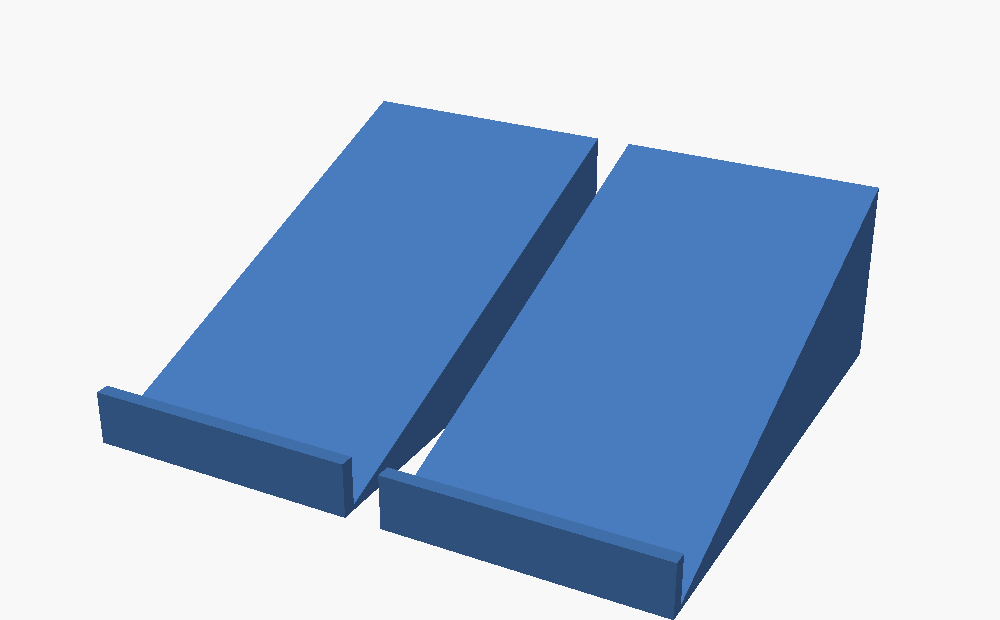
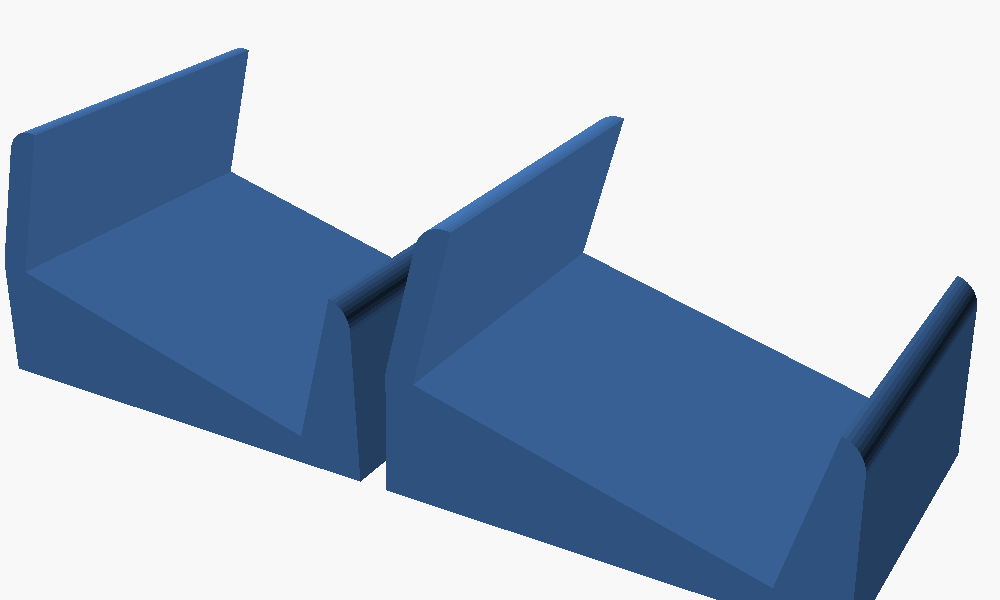
Pieds : socle a rainure au lieu d'une cale — la boite s'encastre
Une cale ne tient que couchee. Des que l'ecran se redresse, la boite
n'a plus qu'une arete en appui, retenue par une butee de 9 mm : elle
bascule. Le profil de cote le montrait sans ambiguite, et c'est ce que
l'utilisateur a vu tout de suite.

Le pied devient un socle a rainure inclinee : les deux joues tiennent
la boite des deux cotes, elle est encastree et non posee. La largeur
de rainure se deduit de la boite (fond + hauteur + couvercle + 0.6).
L'inclinaison se compte maintenant DEPUIS LA VERTICALE, comme sur un
pied d'ecran : 15 degres par defaut.

Le bloc epouse la rainure et descend jusqu'a la table. Premiere
version : le fond de rainure, incline lui aussi, passait sous la table
d'un cote et chaque socle sortait en deux morceaux detaches. Il est
maintenant remonte de la demi-largeur x sin(angle), et l'assise vient
d'une enveloppe convexe rasee au niveau de la table.

Verifie a 15 comme a 40 degres : Simple yes, une piece par socle.

diff --git a/builder.html b/builder.html
@@ -302,11 +302,10 @@
             <div class="rowline"><label style="width:auto;flex:1">Générer des pieds</label>
               <input type="checkbox" id="optStand"></div>
             <div id="standRows" style="display:none">
-              <div class="rowline"><label>Inclinaison</label><input type="number" id="standAngle" min="5" max="60" step="1"><span class="unit">°</span></div>
+              <div class="rowline" title="Recul de l'écran par rapport à la verticale. 0 = boîte debout."><label>Inclinaison</label><input type="number" id="standAngle" min="0" max="60" step="1"><span class="unit">°</span></div>
               <div class="rowline"><label>Largeur</label><input type="number" id="standW" min="15" max="120" step="1"><span class="unit">mm</span></div>
-              <div class="rowline" title="Ce que la cale prend sur le bureau. Plus elle est courte, plus elle est haute à angle égal."><label>Longueur</label><input type="number" id="standLen" min="20" max="250" step="1"><span class="unit">mm</span></div>
-              <div class="rowline"><label>Butée avant</label><input type="number" id="standLip" min="2" max="30" step="0.5"><span class="unit">mm</span></div>
-              <div class="rowline"><label>Butée arrière</label><input type="number" id="standBack" min="0" max="40" step="0.5"><span class="unit">mm</span></div>
+              <div class="rowline" title="Sur quelle hauteur la boîte s'enfonce dans la rainure. Plus c'est profond, plus c'est stable."><label>Encastrement</label><input type="number" id="standDepth" min="6" max="60" step="1"><span class="unit">mm</span></div>
+              <div class="rowline"><label>Matière autour</label><input type="number" id="standWall" min="2" max="12" step="0.5"><span class="unit">mm</span></div>
               <div class="empty" id="standNote"></div>
             </div>
           </div>
@@ -525,9 +524,12 @@ const EN = {
   'Ce que la cale prend sur le bureau. Plus elle est courte, plus elle est haute à angle égal.':
     'How much desk the wedge takes. The shorter it is, the taller it gets at the same angle.',
   'Pieds': 'Feet', 'inclinaison': 'tilt',
-  'Cale': 'Wedge', 'hauteur totale': 'overall height', 'emprise': 'footprint',
-  'La butée arrière tombe sous la boîte : allonge la cale à': 'The back stop lands under the box: make the wedge at least',
-  'au moins, ou remets-la à 0.': 'long, or set it back to 0.',
+  'Socle haut de': 'Socket', 'emprise': 'footprint', 'écran à': 'screen top at',
+  'Encastrement': 'Seat depth', 'Matière autour': 'Wall around',
+  'Recul de l\'écran par rapport à la verticale. 0 = boîte debout.':
+    'How far the screen leans back from vertical. 0 = box upright.',
+  'Sur quelle hauteur la boîte s\'enfonce dans la rainure. Plus c\'est profond, plus c\'est stable.':
+    'How far the box sinks into the groove. Deeper is steadier.',
   'Épaisseur couvercle': 'Lid thickness', 'Épaisseur fond': 'Floor thickness',
   'Épaisseur murs': 'Wall thickness', 'Régénérer': 'Rebuild',
   'Épaisseur du fond de la boîte. C\'est lui qui porte tout : 2 mm suffisent, monte à 3 ou 4 pour un boîtier lourd ou vissé au mur.':
@@ -976,7 +978,7 @@ const DEFAULT_STATE = () => ({
   inner: { w: 100, d: 70, h: 40 },
   vents: false, tieSlots: false, lidFix: 'snap',
   holeComp: 0.3, teardrop: true, lidT: 3, floorT: 2,
-  stand: false, standAngle: 20, standW: 45, standLen: 0, standLip: 9, standBack: 0,
+  stand: false, standAngle: 15, standW: 45, standDepth: 18, standWall: 4,
   mountTabs: 'none', mountN: 2, panel: 'cut',
   face: 'front', cuts: [], pcbs: [], cells: [], divs: [], comps: [], clips: [], nextId: 1, sel: null,
 });
@@ -2124,43 +2126,69 @@ function facePanel(faceId, fw, fh, transform, k, extra) {
 // cube qui tourne ne dit rien d'un angle.
 function standProfileSvg() {
   const a = state.standAngle * Math.PI / 180;
-  const L = state.standLen, h = L * Math.tan(a);
-  const lip = state.standLip, back = state.standBack;
-  const od = state.inner.d + 4.8;
-  const oh = state.floorT + state.inner.h + state.lidT;
-  const ca = Math.cos(a), sa = Math.sin(a);
-  // la boîte repose sur la pente, coin avant calé contre la butée
-  const P0 = [2.4, 2.4 * Math.tan(a)];
-  const P1 = [P0[0] + od * ca, P0[1] + od * sa];
-  const P2 = [P1[0] - oh * sa, P1[1] + oh * ca];
-  const P3 = [P0[0] - oh * sa, P0[1] + oh * ca];
-  const pts = [P0, P1, P2, P3];
-  const maxX = Math.max(L, ...pts.map(p => p[0])) + 4;
-  const minX = Math.min(0, ...pts.map(p => p[0])) - 4;
-  const maxY = Math.max(h + back, ...pts.map(p => p[1])) + 4;
-  const W = 186, S = Math.min(W / (maxX - minX), 130 / maxY);
-  const H = maxY * S + 16;
-  const X = x => (x - minX) * S;
-  const Y = y => H - 10 - y * S;
-  const poly = ps => ps.map(p => `${r1(X(p[0]))},${r1(Y(p[1]))}`).join(' ');
-  let g = `<svg viewBox="0 0 ${r1(W)} ${r1(H)}" style="width:100%;height:auto;margin-top:6px">`;
+  const wall = state.standWall, depth = state.standDepth;
+  const T = state.floorT + state.inner.h + state.lidT + 0.6;   // la rainure
+  const od = state.inner.d + 4.8;                              // la boîte
+  const hs = T / 2, by = wall + hs * Math.sin(a);
+  const ux = Math.sin(a), uy = Math.cos(a);
+  const nx = Math.cos(a), ny = -Math.sin(a);
+  const P = (t, u) => [t * nx + u * ux, by + t * ny + u * uy];
+  const rainure = [P(-hs, 0), P(hs, 0), P(hs, depth), P(-hs, depth)];
+  const bloc0 = [P(-hs - wall, -wall), P(hs + wall, -wall),
+                 P(hs + wall, depth + wall), P(-hs - wall, depth + wall)];
+  const xs = bloc0.map(q => q[0]);
+  // enveloppe convexe du bloc et de son assise, puis rasée à la table
+  const pts = bloc0.concat([[Math.min(...xs), 0], [Math.max(...xs), 0]]);
+  const cr = (o, p, q) => (p[0]-o[0])*(q[1]-o[1]) - (p[1]-o[1])*(q[0]-o[0]);
+  const tri = pts.slice().sort((p, q) => p[0] - q[0] || p[1] - q[1]);
+  const moitie = liste => {
+    const h = [];
+    for (const q of liste) {
+      while (h.length >= 2 && cr(h[h.length-2], h[h.length-1], q) <= 0) h.pop();
+      h.push(q);
+    }
+    h.pop(); return h;
+  };
+  let bloc = moitie(tri).concat(moitie(tri.slice().reverse()));
+  // découpe au ras de la table (Sutherland-Hodgman sur y >= 0)
+  const clip = poly => {
+    const out = [];
+    for (let k = 0; k < poly.length; k++) {
+      const A = poly[k], B = poly[(k + 1) % poly.length];
+      const dA = A[1], dB = B[1];
+      if (dA >= 0) out.push(A);
+      if ((dA >= 0) !== (dB >= 0)) {
+        const t2 = dA / (dA - dB);
+        out.push([A[0] + t2 * (B[0] - A[0]), 0]);
+      }
+    }
+    return out;
+  };
+  bloc = clip(bloc);
+  // la boîte, encastrée jusqu'au fond de la rainure
+  const B0 = P(-T / 2, 0), B1 = P(T / 2, 0);
+  const B2 = [B1[0] + od * ux, B1[1] + od * uy];
+  const B3 = [B0[0] + od * ux, B0[1] + od * uy];
+  const boite = [B0, B1, B2, B3];
+  const tous = bloc.concat(boite);
+  const maxX = Math.max(...tous.map(p => p[0])) + 4;
+  const minX = Math.min(...tous.map(p => p[0])) - 4;
+  const maxY = Math.max(...tous.map(p => p[1])) + 4;
+  const W = 186, S = Math.min(W / (maxX - minX), 132 / maxY);
+  const H2 = maxY * S + 16;
+  const X = x => (x - minX) * S, Y = y => H2 - 10 - y * S;
+  const poly2 = ps => ps.map(p => `${r1(X(p[0]))},${r1(Y(p[1]))}`).join(' ');
+  let g = `<svg viewBox="0 0 ${r1(W)} ${r1(H2)}" style="width:100%;height:auto;margin-top:6px">`;
   g += `<line x1="0" y1="${r1(Y(0))}" x2="${W}" y2="${r1(Y(0))}" stroke="#3d475c" stroke-width="1.2"/>`;
-  g += `<polygon points="${poly([[0, 0], [L, 0], [L, h]])}" fill="rgba(240,179,80,.22)" stroke="#f0b350" stroke-width="1"/>`;
-  g += `<polygon points="${poly([[0, 0], [2.4, 0], [2.4, lip], [0, lip]])}" fill="rgba(240,179,80,.35)" stroke="#f0b350" stroke-width="1"/>`;
-  if (back > 0)
-    g += `<polygon points="${poly([[L - 2.4, 0], [L, 0], [L, h + back], [L - 2.4, h + back]])}" fill="rgba(240,179,80,.35)" stroke="#f0b350" stroke-width="1"/>`;
-  g += `<polygon points="${poly(pts)}" fill="rgba(197,139,255,.14)" stroke="#c58bff" stroke-width="1.3"/>`;
-  g += `<line x1="${r1(X(P3[0]))}" y1="${r1(Y(P3[1]))}" x2="${r1(X(P2[0]))}" y2="${r1(Y(P2[1]))}" stroke="#e6e9ef" stroke-width="2.4"/>`;
+  g += `<polygon points="${poly2(boite)}" fill="rgba(197,139,255,.14)" stroke="#c58bff" stroke-width="1.3"/>`;
+  g += `<line x1="${r1(X(B0[0]))}" y1="${r1(Y(B0[1]))}" x2="${r1(X(B3[0]))}" y2="${r1(Y(B3[1]))}" stroke="#e6e9ef" stroke-width="2.4"/>`;
+  g += `<polygon points="${poly2(bloc)}" fill="rgba(240,179,80,.30)" stroke="#f0b350" stroke-width="1.2"/>`;
+  g += `<polygon points="${poly2(rainure)}" fill="#10141b" stroke="#f0b350" stroke-width=".8"/>`;
   g += `</svg>`;
-  // la butée arrière ne retient la boîte que si la cale va jusqu'à son
-  // bord ; plus courte, elle vient buter sous elle
-  const alerte = back > 0 && L < od * ca
-    ? t('La butée arrière tombe sous la boîte : allonge la cale à') + ' ' +
-      r1(od * ca + 2.4) + ' mm ' + t('au moins, ou remets-la à 0.')
-    : null;
-  return { svg: g, h: r1(h), alerte,
-           hors: r1(Math.max(...pts.map(p => p[1]))),
-           emprise: r1(Math.max(L, ...pts.map(p => p[0]))) };
+  const hb = Math.max(...bloc.map(p => p[1]));
+  return { svg: g, h: r1(hb),
+           hors: r1(Math.max(...boite.map(p => p[1]))),
+           emprise: r1(Math.max(...bloc.map(p => p[0])) - Math.min(...bloc.map(p => p[0]))) };
 }
 
 function render3d() {
@@ -2210,7 +2238,8 @@ function render3d() {
 function applyP3() {
   // sur pieds, la boîte est montrée dans son attitude réelle : on
   // bascule le modèle avant d'y appliquer la rotation de l'utilisateur
-  const inc = state.stand ? ` rotateX(${-state.standAngle}deg)` : '';
+  // l'angle est compté depuis la verticale : debout = -90 de basculement
+  const inc = state.stand ? ` rotateX(${state.standAngle - 90}deg)` : '';
   $('p3cube').style.transform = `rotateX(${p3.rx}deg) rotateY(${p3.ry}deg)${inc}`;
 }
 
@@ -2598,8 +2627,7 @@ function buildArgList(part) {
   if (state.floorT !== 2) args.push(`floor_t=${state.floorT}`);
   if (part === 'stand') {
     args.push(`stand_angle=${state.standAngle}`, `stand_w=${state.standW}`,
-              `stand_len=${state.standLen}`,
-              `stand_lip=${state.standLip}`, `stand_back=${state.standBack}`);
+              `stand_depth=${state.standDepth}`, `stand_wall=${state.standWall}`);
     return args;
   }
   if (part === 'inserts') {
@@ -3138,9 +3166,8 @@ function buildStatic() {
   $('optStand').addEventListener('change', () => {
     pushHistory(); state.stand = $('optStand').checked; updateAll();
   });
-  for (const [id, cle, mini] of [['standAngle', 'standAngle', 5], ['standW', 'standW', 15],
-                                 ['standLen', 'standLen', 20],
-                                 ['standLip', 'standLip', 2], ['standBack', 'standBack', 0]])
+  for (const [id, cle, mini] of [['standAngle', 'standAngle', 0], ['standW', 'standW', 15],
+                                 ['standDepth', 'standDepth', 6], ['standWall', 'standWall', 2]])
     $(id).addEventListener('input', () => {
       const v = parseFloat($(id).value);
       if (!isNaN(v) && v >= mini) { pushHistory(cle); state[cle] = v; updateAll(); }
@@ -3295,17 +3322,13 @@ function updateAll(withInspector = true) {
   if (document.activeElement !== $('optFloorT')) $('optFloorT').value = state.floorT;
   $('optStand').checked = state.stand;
   $('standRows').style.display = state.stand ? '' : 'none';
-  if (!state.standLen) state.standLen = r1((state.inner.d + 4.8) * 0.7);
-  for (const [id, cle] of [['standAngle', 'standAngle'], ['standW', 'standW'],
-                           ['standLen', 'standLen'],
-                           ['standLip', 'standLip'], ['standBack', 'standBack']])
-    if (document.activeElement !== $(id)) $(id).value = state[cle];
+  for (const cle of ['standAngle', 'standW', 'standDepth', 'standWall'])
+    if (document.activeElement !== $(cle)) $(cle).value = state[cle];
   if (state.stand) {
     const pr = standProfileSvg();
     $('standNote').innerHTML = pr.svg +
-      `<div style="margin-top:4px">${t('Cale')} ${state.standLen} × ${pr.h} mm · ` +
-      `${t('hauteur totale')} ${pr.hors} mm · ${t('emprise')} ${pr.emprise} mm</div>` +
-      (pr.alerte ? `<div style="margin-top:5px;color:var(--danger)">${esc(pr.alerte)}</div>` : '');
+      `<div style="margin-top:4px">${t('Socle haut de')} ${pr.h} mm · ` +
+      `${t('emprise')} ${pr.emprise} mm · ${t('écran à')} ${pr.hors} mm</div>`;
   }
   const stale = state.tpl && state.tpl.id === 'p4_7b' && state.tpl.v < TPL_7B_V;
   $('tplStale').style.display = stale ? '' : 'none';

diff --git a/docs/Elements-Reference.md b/docs/Elements-Reference.md
@@ -297,35 +297,35 @@ Case panel.
 
 ## Tilt feet (separate part)
 
-*Case* panel → **Tilt feet**. Two wedges the box sits on, screen
-raised towards you — a fourth **Feet** button appears in the footer to
-generate them.
+*Case* panel → **Tilt feet**. Two **grooved sockets** the box slots
+into, screen raised towards you — a fourth **Feet** button appears in
+the footer to generate them.
 
 | | |
 |---|---|
-| Tilt | angle from the desk, 20° default |
-| Width | one wedge, 45 mm default |
-| Length | how much desk it takes; defaults to 70 % of the box depth |
-| Front stop | the ridge the box leans against so it cannot slide down |
-| Back stop | 0 = open wedge; above 0 the box is closed in on the far side too |
+| Tilt | how far the screen leans back **from vertical**, 15° default |
+| Width | one socket, 45 mm default |
+| Seat depth | how far the box sinks into the groove, 18 mm — deeper is steadier |
+| Wall around | material around the groove, 4 mm |
 
-**A side profile is drawn as you type** — the wedge, the box resting
-on it, the screen face picked out on top — with the wedge height, the
-overall height and the footprint underneath. That drawing is how you
+The groove width is taken from the box itself (floor + inner height +
+lid, plus 0.6 of clearance), so it always matches.
+
+**Why a socket and not a wedge.** A wedge only works lying back. Stand
+the screen up and the box has a single edge in contact: it pivots on
+its own front lip and topples. Here both jaws of the groove hold it,
+and the box is seated, not balanced.
+
+**A side profile is drawn as you type** — the socket, the box seated
+in it, the screen face picked out — with the socket height, the
+footprint and how high the screen reaches. That drawing is how you
 pick a tilt; the 3D preview also leans the box to the chosen angle,
 but a rotating box tells you little about degrees.
 
-Length and tilt together set the height: shorter at the same angle
-means taller. 85 mm at 25° is already 40 mm of wedge.
-
-The **back stop only holds the box if the wedge reaches its far
-edge**. On a shorter wedge it lands *under* the box instead, and the
-panel says so in red with the length you would need.
-
-They print flat on the plate with the slope facing up: no supports,
-no overhang. Two per plate, side by side. Place them under the box's
-left and right edges — the middle stays clear, so a card slot or a
-connector on the front wall is still reachable.
+They print with the groove opening upward: no supports. Two per
+plate, side by side. Place them under the box's left and right edges —
+the middle stays clear, so a card slot on the front wall is still
+reachable.
 
 ## Case panel
 
